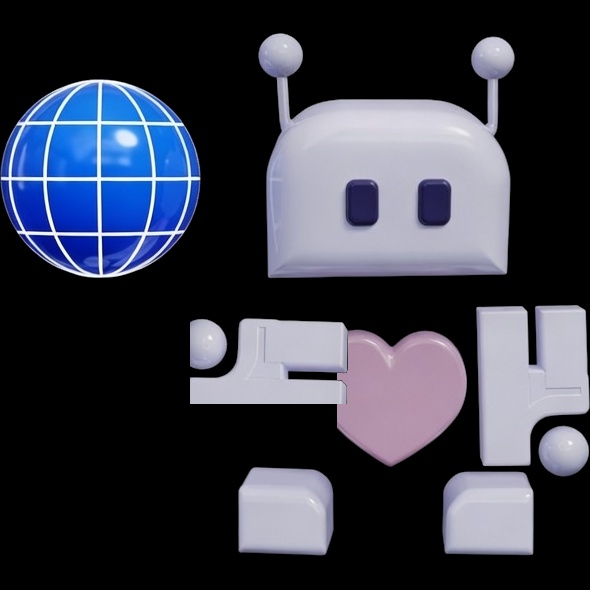
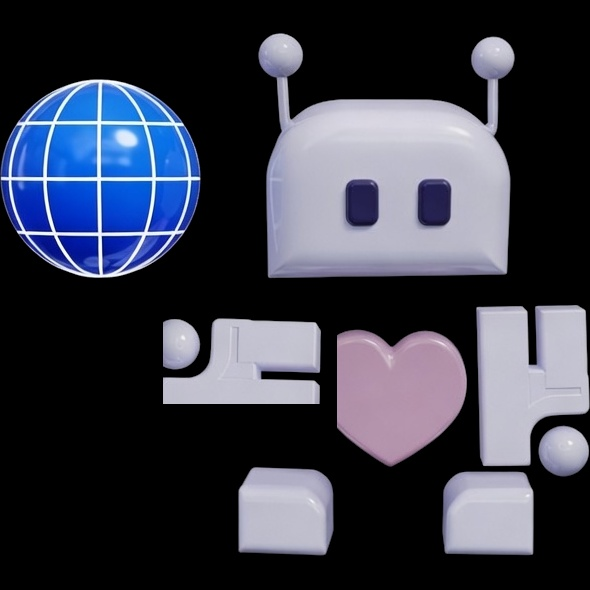
feat(open-web-vectors): gap the 90° arm off the heart
Slide the compact L left so it floats beside the heart the same way
the hanging arm does, instead of overlapping it.

Changed region(s): [[0.2746, 0.5186, 0.4881, 0.7017], [0.4271, 0.5186, 0.6102, 0.7017]]

diff --git a/site/templates/open-web-vectors.html b/site/templates/open-web-vectors.html
@@ -64,8 +64,8 @@
         </g>
       </svg>
       <div class="owv-orbit-scrim"></div>
-      <img class="owv-orbit-robot" src="/images/robot-orbit-520.webp?v=armL"
-           srcset="/images/robot-orbit-320.webp?v=armL 320w, /images/robot-orbit-520.webp?v=armL 520w"
+      <img class="owv-orbit-robot" src="/images/robot-orbit-520.webp?v=gap"
+           srcset="/images/robot-orbit-320.webp?v=gap 320w, /images/robot-orbit-520.webp?v=gap 520w"
            sizes="200px" width="520" height="520" alt="" loading="lazy" decoding="async">
     </div>
     <div class="container">
